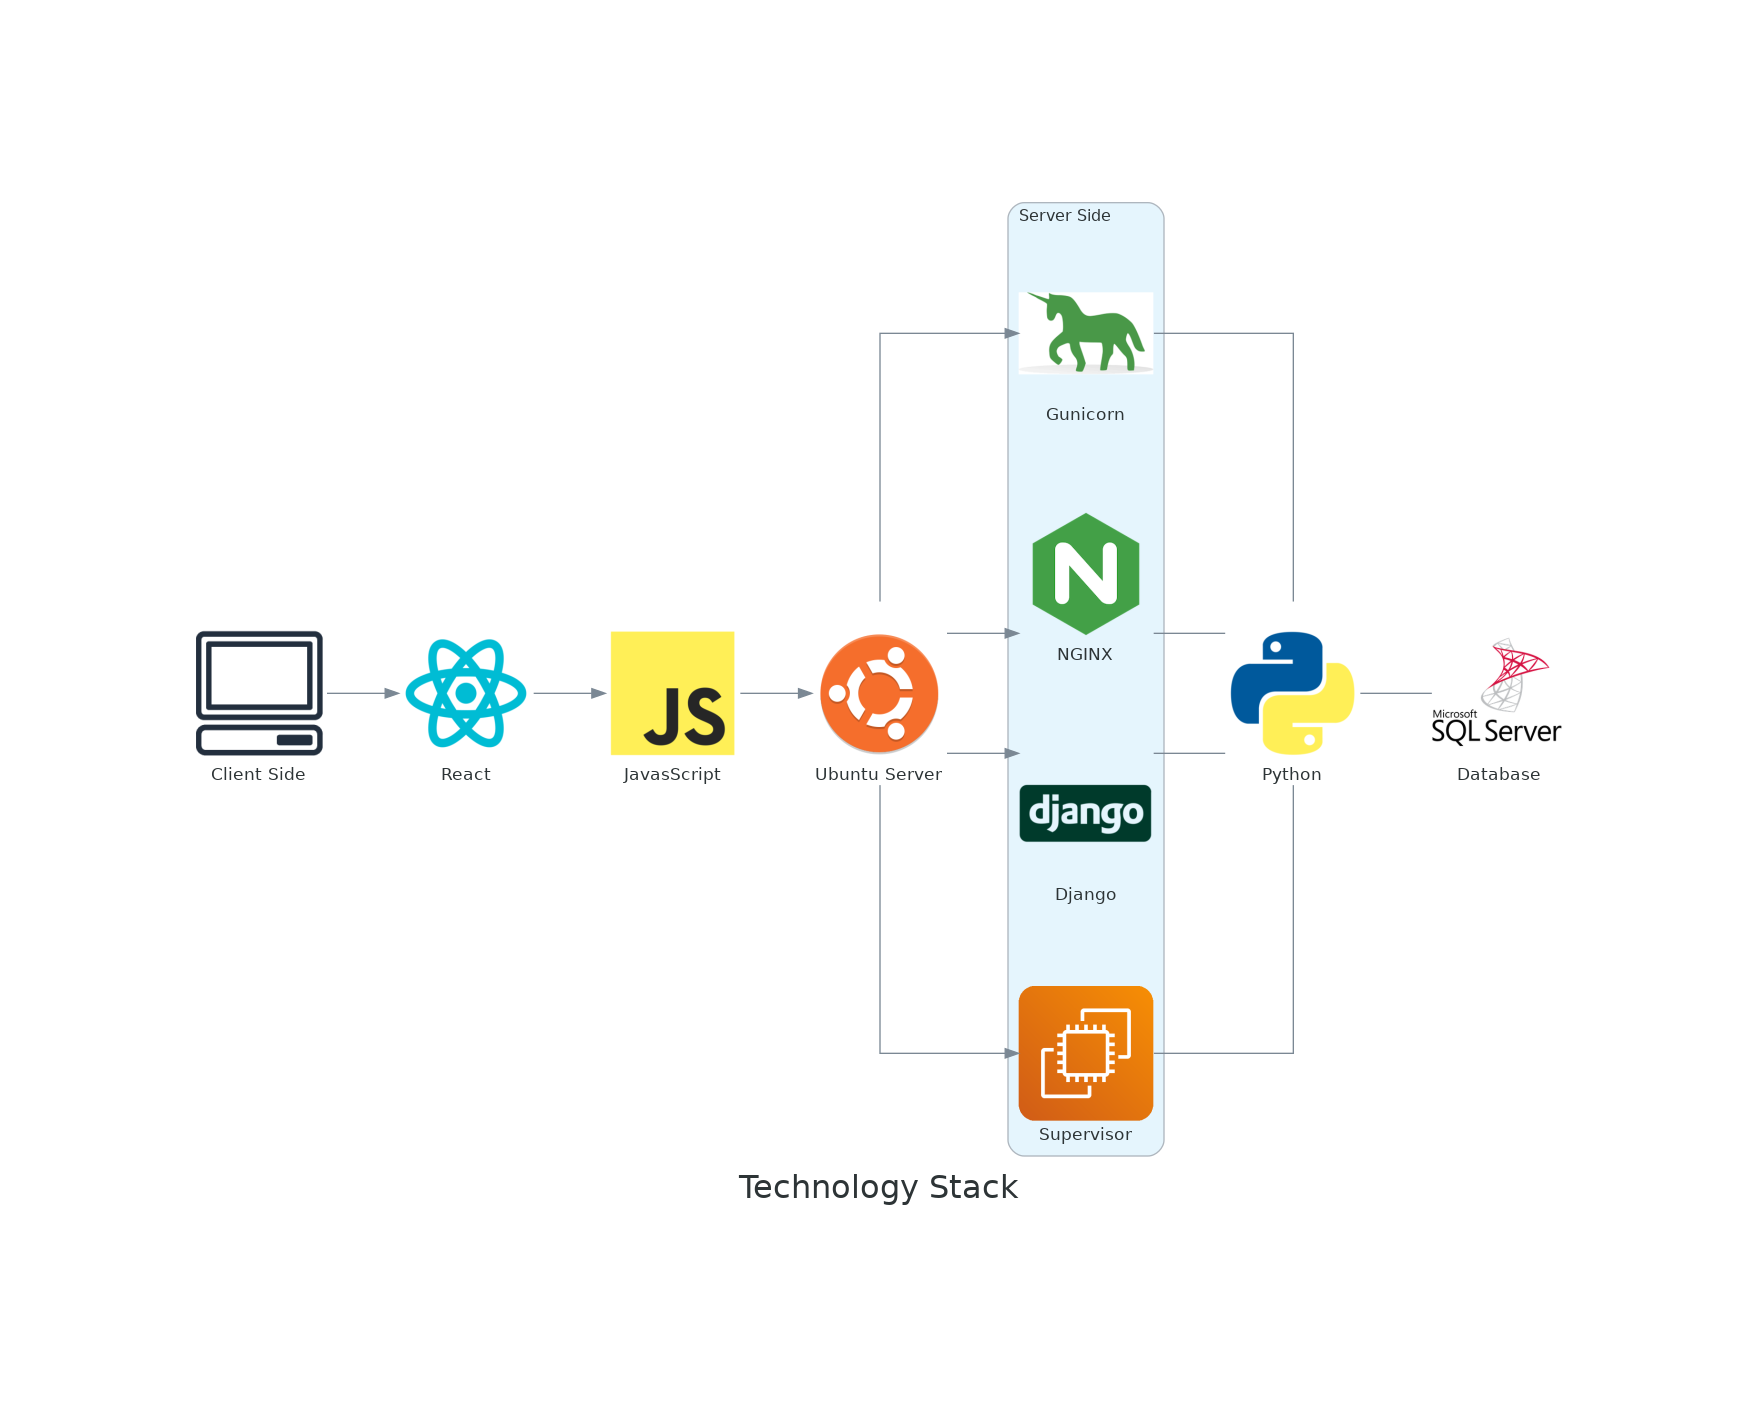
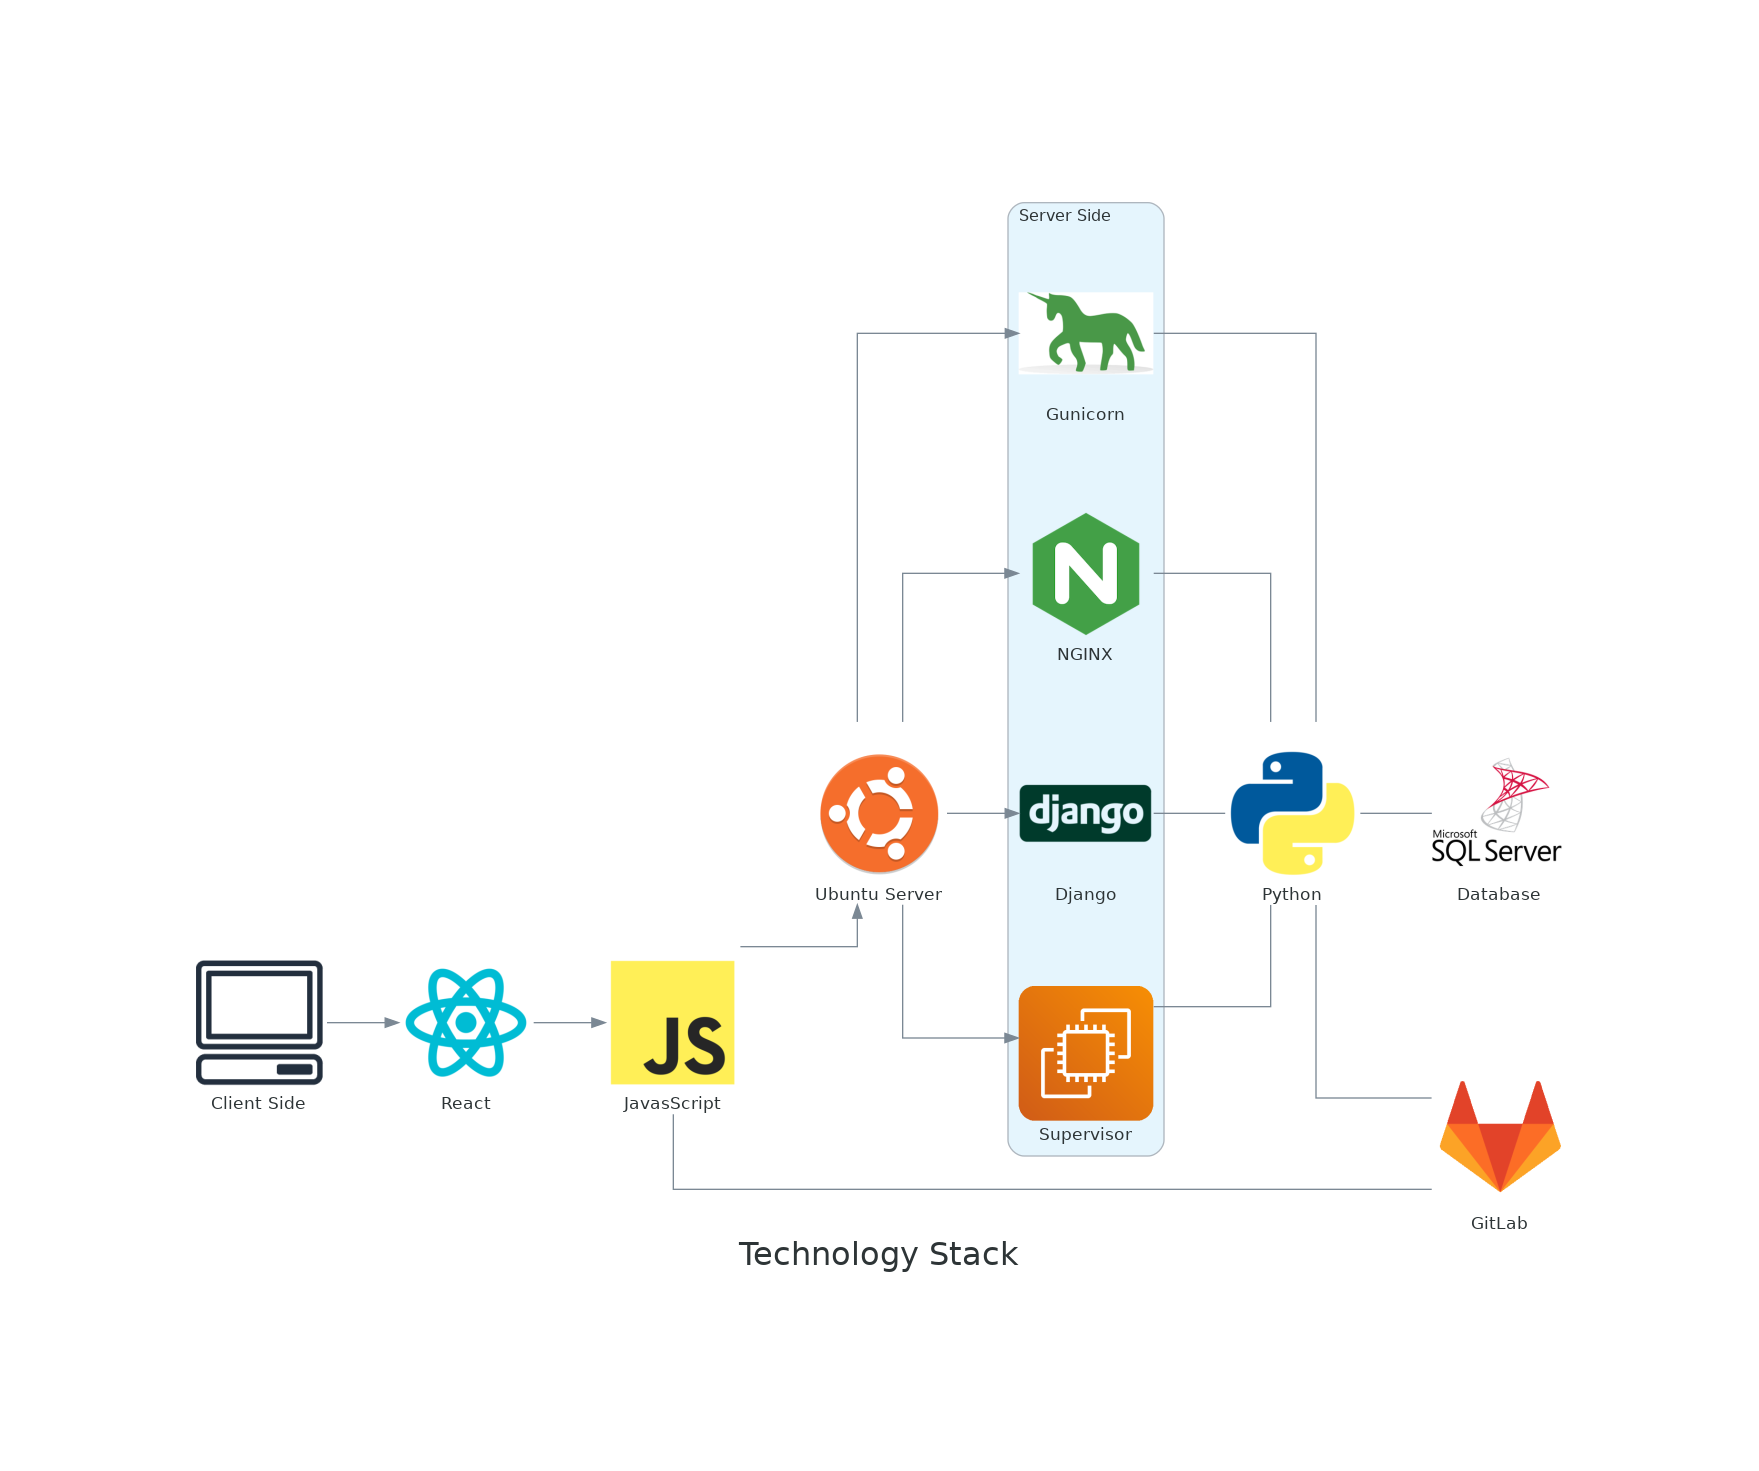
update tech-stack.py

diff --git a/tech-stack.py b/tech-stack.py
@@ -9,7 +9,7 @@ from diagrams.programming.language import Python, Javascript
 from diagrams.generic.os import Ubuntu
 from diagrams.aws.compute import EC2
 from diagrams.programming.framework import Django, React
-
+from diagrams.onprem.vcs import Gitlab
 from diagrams.aws.database import ElastiCache, RDS
 from diagrams.aws.network import ELB
 from diagrams.aws.network import Route53
@@ -24,6 +24,7 @@ with Diagram("Technology Stack", show=False, graph_attr=graph_attr):
     react = React("React")
     js = Javascript("JavasScript")
     server = Ubuntu("Ubuntu Server")
+    gitlab = Gitlab("GitLab")
 
     with Cluster("Server Side"):
         ubuntu = [Gunicorn("Gunicorn"),
@@ -36,3 +37,5 @@ with Diagram("Technology Stack", show=False, graph_attr=graph_attr):
 
     client >> react >> js >> server >> ubuntu
     ubuntu - py - mssql
+    js - gitlab
+    py - gitlab
